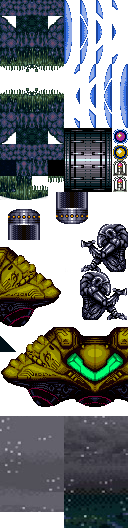
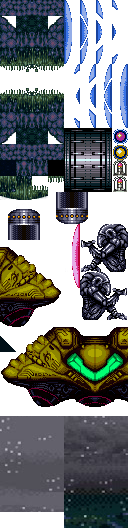
Puerta roja bloqueada

Changed region(s): [[0.5625, 0.4242, 0.625, 0.5455]]

diff --git a/js/main.js b/js/main.js
@@ -31,22 +31,22 @@ window.addEventListener('load', function () {
 		}
 	});
 
-loadSamus(Q);
-loadMunition(Q);
-loadBall(Q);
-loadMissile(Q);
+	loadSamus(Q);
+	loadMunition(Q);
+	loadBall(Q);
+	loadMissile(Q);
 
-loadDoorR(Q);
-loadDoorL(Q);
+	loadDoorR(Q);
+	loadDoorL(Q);
 
-loadZoomer(Q);
-loadSkree(Q);
-loadSpacePirateProjectile(Q);
-loadSpacePirate(Q);
+	loadZoomer(Q);
+	loadSkree(Q);
+	loadSpacePirateProjectile(Q);
+	loadSpacePirate(Q);
 
-loadKraid(Q);
+	loadKraid(Q);
 
-loadDiagonal(Q);
+	loadDiagonal(Q);
 
 
 
@@ -94,7 +94,7 @@ loadDiagonal(Q);
 		stage.viewport.scale = 1;
 		stage.viewport.offsetY = 80;
 	});
-	
+
 
 	Q.loadTMX(
 		'samus.png, samus.json, weapons.png, weapons.json, rightdoor.png, rightdoor.json, leftdoor.png, leftdoor.json, ball.png, ball.json, missile.png, missile.json, zoomer.png, zoomer.json, skree.png, skree.json, space_pirate.png, space_pirate.json, space_pirate_projectile.png, space_pirate_projectile.json, kraid.png, kraid.json, zebes.tmx',
@@ -194,12 +194,6 @@ loadDiagonal(Q);
 		stage.insert(
 			new Q.DoorR({
 				x: 1460,
-				y: 1616
-			})
-		);
-		stage.insert(
-			new Q.DoorL({
-				x: 1212,
 				y: 1616
 			})
 		);
